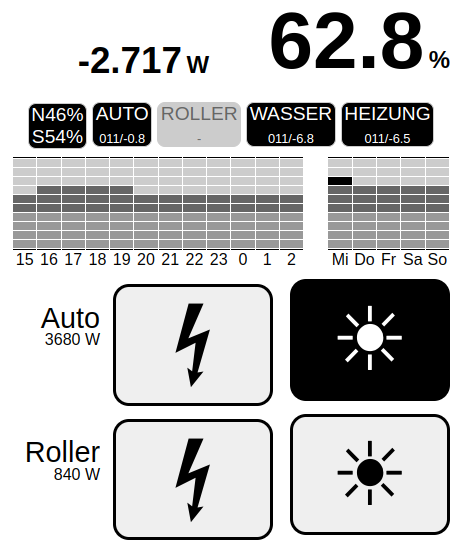
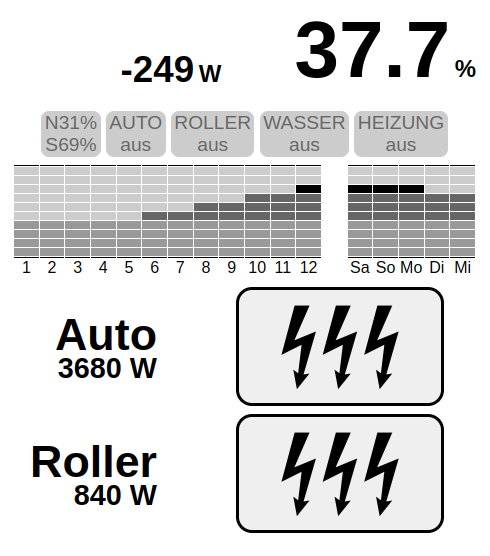
Auf internen Heartbeat umgestellt; die UI ist nicht mehr der Taktgeber und und kann auch weggelassen werden

diff --git a/sd-karteninhalt/index.html b/sd-karteninhalt/index.html
@@ -22,7 +22,7 @@
 			if(!ist_initialisiert) {
 				warte_auf_daten = false;
 				_erstelle_balkentabelle('balkenanzeige', 18);
-				setInterval(function() { refresh('', '', ''); }, 1000 * 60);
+				setInterval(function() { refresh('', '', ''); }, 1000 * 20);
 				ist_initialisiert = true;
 			}
 			// user-aktionen immer ausfuehren, nie blocken!
@@ -211,15 +211,24 @@
 				if(this.readyState == this.DONE) {
 					done_func();
 					if(this.status == 200) {
-						var daten = JSON.parse(this.responseText);
+						var daten = null;
+						try {
+							daten = JSON.parse(this.responseText);
+						} catch(err) {
+							_zaehle_fehler(true);
+							console.log(err);
+							return;
+						}
+						
 						zeitpunkt_letzte_daten = daten['timestamp'] * 1000;
 						_setze_daten_ein(daten);
 						var now = Math.floor(new Date().getTime() / 1000);
-						if(daten['timestamp'] < now - 120) {
+						if(now - daten['timestamp'] > 120) {
+							console.log("Daten zu alt: " + (now - daten['timestamp']) + "s");
 							_zaehle_fehler(true);
-						} else {
-							_zaehle_fehler(false);
+							return;
 						}
+						_zaehle_fehler(false);
 					} else {
 						_zaehle_fehler(true);
 					}
@@ -452,7 +461,7 @@
 	<p>Einfach warten, was wird schon...</p>
 </div>
 
-<div id="elektrische_daten" onclick="refresh('', '', '');">
+<div id="elektrische_daten">
 	<div class="energie">
 		<span id="ueberschuss"></span>
 		<span class="einheit">W</span>

diff --git a/zentrale/web_presenter.h b/zentrale/web_presenter.h
@@ -204,7 +204,7 @@ namespace Local {
 			webserver.server.send(204, "text/plain", "");
 		}
 
-		void ermittle_daten(const char* data_filename) {
+		void heartbeat(const char* data_filename) {
 			// Serial.println(printf("Date: %4d-%02d-%02d %02d:%02d:%02d\n", year(time), month(time), day(time), hour(time), minute(time), second(time)));
 			Local::VerbraucherAPI verbraucher_api(*cfg, web_client, persistenz);
 			int now_timestamp = verbraucher_api.timestamp;
@@ -265,111 +265,111 @@ namespace Local {
 			_write_log_data(now_timestamp);
 
 			if(persistenz.open_file_to_overwrite(data_filename)) {
-					int anteil_pv1_in_prozent = elektroanlage.gib_anteil_pv1_in_prozent();
-					sprintf(persistenz.buffer,
-						"{\"ueberschuss_in_wh\":%i,\"solarakku_ist_an\":%s,",
-						elektroanlage.gib_ueberschuss_in_w(),
-						(elektroanlage.solarakku_ist_an ? "true" : "false")
-					);
-					persistenz.print_buffer_to_file();
-					sprintf(persistenz.buffer,
-						"\"solarakku_ladestand_in_promille\":%i,",
-						elektroanlage.solarakku_ladestand_in_promille
-					);
-					persistenz.print_buffer_to_file();
-					sprintf(persistenz.buffer,
-						"\"solaranteil_in_prozent_string1\":%i,",
-						anteil_pv1_in_prozent
-					);
-					persistenz.print_buffer_to_file();
-					sprintf(persistenz.buffer,
-						"\"solaranteil_in_prozent_string2\":%i,",
-						100 - anteil_pv1_in_prozent
-					);
-					persistenz.print_buffer_to_file();
-					sprintf(persistenz.buffer,
-						"\"stunden_balkenanzeige_startzeit\":%i,",
-						wetter.stundenvorhersage_startzeitpunkt
-					);
-					persistenz.print_buffer_to_file();
-					int stundenvorhersage[12];
-					for(int i = 0; i < 12; i++) {
-						stundenvorhersage[i] = verbraucher.gib_stundenvorhersage_akku_ladestand_als_fibonacci(i);
-					}
-					sprintf(persistenz.buffer,
-						"\"stunden_balkenanzeige\":"
-					);
-					persistenz.print_buffer_to_file();
-					sprintf(persistenz.buffer,
-						"[%i,%i,%i,%i,%i,%i,%i,%i,%i,%i,%i,%i],",
-						stundenvorhersage[0],
-						stundenvorhersage[1],
-						stundenvorhersage[2],
-						stundenvorhersage[3],
-						stundenvorhersage[4],
-						stundenvorhersage[5],
-						stundenvorhersage[6],
-						stundenvorhersage[7],
-						stundenvorhersage[8],
-						stundenvorhersage[9],
-						stundenvorhersage[10],
-						stundenvorhersage[11]
-					);
-					persistenz.print_buffer_to_file();
-					sprintf(persistenz.buffer,
-						"\"tage_balkenanzeige_startzeit\":%i,",
-						wetter.tagesvorhersage_startzeitpunkt
-					);
-					persistenz.print_buffer_to_file();
-					int tagesvorhersage[5];
-					for(int i = 0; i < 5; i++) {
-						tagesvorhersage[i] = wetter.gib_tagesvorhersage_solarstrahlung_als_fibonacci(i);
-					}
-					sprintf(persistenz.buffer,
-						"\"tage_balkenanzeige\":[%i,%i,%i,%i,%i],",
-						tagesvorhersage[0],
-						tagesvorhersage[1],
-						tagesvorhersage[2],
-						tagesvorhersage[3],
-						tagesvorhersage[4]
-					);
-					persistenz.print_buffer_to_file();
-					sprintf(persistenz.buffer,
-						"\"auto_laden_an\":%s,\"roller_laden_an\":%s,",
-						verbraucher.auto_laden_ist_an() ? "true" : "false",
-						verbraucher.roller_laden_ist_an() ? "true" : "false"
-					);
-					persistenz.print_buffer_to_file();
-					sprintf(persistenz.buffer,
-						"\"wasser_ueberladen\":%s,\"heizung_ueberladen\":%s,",
-						verbraucher.wasser_relay_ist_an ? "true" : "false",
-						verbraucher.heizung_relay_ist_an ? "true" : "false"
-					);
-					persistenz.print_buffer_to_file();
-					sprintf(persistenz.buffer,
-						"\"auto_laden\":%s,\"roller_laden\":%s,",
-						verbraucher.auto_ladestatus == Local::Verbraucher::Ladestatus::force
-							? "\"force\"" : "\"solar\"",
-						verbraucher.roller_ladestatus == Local::Verbraucher::Ladestatus::force
-							? "\"force\"" : "\"solar\""
-					);
-					persistenz.print_buffer_to_file();
-					sprintf(persistenz.buffer,
-						"\"auto_benoetigte_ladeleistung_in_w\":%i,",
-						verbraucher.auto_benoetigte_ladeleistung_in_w
-					);
-					persistenz.print_buffer_to_file();
-					sprintf(persistenz.buffer,
-						"\"roller_benoetigte_ladeleistung_in_w\":%i,",
-						verbraucher.roller_benoetigte_ladeleistung_in_w
-					);
-					persistenz.print_buffer_to_file();
-					sprintf(persistenz.buffer,
-						"\"solarerzeugung_ist_aktiv\":%s,\"timestamp\":%i}",
-						verbraucher.solarerzeugung_ist_aktiv() ? "true" : "false",
-						now_timestamp
-					);
-					persistenz.print_buffer_to_file();
+				int anteil_pv1_in_prozent = elektroanlage.gib_anteil_pv1_in_prozent();
+				sprintf(persistenz.buffer,
+					"{\"ueberschuss_in_wh\":%i,\"solarakku_ist_an\":%s,",
+					elektroanlage.gib_ueberschuss_in_w(),
+					(elektroanlage.solarakku_ist_an ? "true" : "false")
+				);
+				persistenz.print_buffer_to_file();
+				sprintf(persistenz.buffer,
+					"\"solarakku_ladestand_in_promille\":%i,",
+					elektroanlage.solarakku_ladestand_in_promille
+				);
+				persistenz.print_buffer_to_file();
+				sprintf(persistenz.buffer,
+					"\"solaranteil_in_prozent_string1\":%i,",
+					anteil_pv1_in_prozent
+				);
+				persistenz.print_buffer_to_file();
+				sprintf(persistenz.buffer,
+					"\"solaranteil_in_prozent_string2\":%i,",
+					100 - anteil_pv1_in_prozent
+				);
+				persistenz.print_buffer_to_file();
+				sprintf(persistenz.buffer,
+					"\"stunden_balkenanzeige_startzeit\":%i,",
+					wetter.stundenvorhersage_startzeitpunkt
+				);
+				persistenz.print_buffer_to_file();
+				int stundenvorhersage[12];
+				for(int i = 0; i < 12; i++) {
+					stundenvorhersage[i] = verbraucher.gib_stundenvorhersage_akku_ladestand_als_fibonacci(i);
+				}
+				sprintf(persistenz.buffer,
+					"\"stunden_balkenanzeige\":"
+				);
+				persistenz.print_buffer_to_file();
+				sprintf(persistenz.buffer,
+					"[%i,%i,%i,%i,%i,%i,%i,%i,%i,%i,%i,%i],",
+					stundenvorhersage[0],
+					stundenvorhersage[1],
+					stundenvorhersage[2],
+					stundenvorhersage[3],
+					stundenvorhersage[4],
+					stundenvorhersage[5],
+					stundenvorhersage[6],
+					stundenvorhersage[7],
+					stundenvorhersage[8],
+					stundenvorhersage[9],
+					stundenvorhersage[10],
+					stundenvorhersage[11]
+				);
+				persistenz.print_buffer_to_file();
+				sprintf(persistenz.buffer,
+					"\"tage_balkenanzeige_startzeit\":%i,",
+					wetter.tagesvorhersage_startzeitpunkt
+				);
+				persistenz.print_buffer_to_file();
+				int tagesvorhersage[5];
+				for(int i = 0; i < 5; i++) {
+					tagesvorhersage[i] = wetter.gib_tagesvorhersage_solarstrahlung_als_fibonacci(i);
+				}
+				sprintf(persistenz.buffer,
+					"\"tage_balkenanzeige\":[%i,%i,%i,%i,%i],",
+					tagesvorhersage[0],
+					tagesvorhersage[1],
+					tagesvorhersage[2],
+					tagesvorhersage[3],
+					tagesvorhersage[4]
+				);
+				persistenz.print_buffer_to_file();
+				sprintf(persistenz.buffer,
+					"\"auto_laden_an\":%s,\"roller_laden_an\":%s,",
+					verbraucher.auto_laden_ist_an() ? "true" : "false",
+					verbraucher.roller_laden_ist_an() ? "true" : "false"
+				);
+				persistenz.print_buffer_to_file();
+				sprintf(persistenz.buffer,
+					"\"wasser_ueberladen\":%s,\"heizung_ueberladen\":%s,",
+					verbraucher.wasser_relay_ist_an ? "true" : "false",
+					verbraucher.heizung_relay_ist_an ? "true" : "false"
+				);
+				persistenz.print_buffer_to_file();
+				sprintf(persistenz.buffer,
+					"\"auto_laden\":%s,\"roller_laden\":%s,",
+					verbraucher.auto_ladestatus == Local::Verbraucher::Ladestatus::force
+						? "\"force\"" : "\"solar\"",
+					verbraucher.roller_ladestatus == Local::Verbraucher::Ladestatus::force
+						? "\"force\"" : "\"solar\""
+				);
+				persistenz.print_buffer_to_file();
+				sprintf(persistenz.buffer,
+					"\"auto_benoetigte_ladeleistung_in_w\":%i,",
+					verbraucher.auto_benoetigte_ladeleistung_in_w
+				);
+				persistenz.print_buffer_to_file();
+				sprintf(persistenz.buffer,
+					"\"roller_benoetigte_ladeleistung_in_w\":%i,",
+					verbraucher.roller_benoetigte_ladeleistung_in_w
+				);
+				persistenz.print_buffer_to_file();
+				sprintf(persistenz.buffer,
+					"\"solarerzeugung_ist_aktiv\":%s,\"timestamp\":%i}",
+					verbraucher.solarerzeugung_ist_aktiv() ? "true" : "false",
+					now_timestamp
+				);
+				persistenz.print_buffer_to_file();
 				persistenz.close_file();
 			}
 		}

diff --git a/README.md b/README.md
@@ -12,26 +12,23 @@ Konkret:
 
 ![Screenshot der UI](ui-screenshot.png)
 
-- Obere Zeile (v.l.n.r):
-  - Überschuss-Leistung (Solarerzeugung abzüglich Hausverbrauch)
-    - Klick auf die Zahl erzwingt eine sofortige Aktualisierung der Daten (normal erfolgt 1x die Minute eine Aktualisierung)
-  - Pufferakku-Ladestand
+- Obere Zeile:
+  - Links: Überschuss-Leistung (Solarerzeugung abzüglich Hausverbrauch)
+  - Rechts: Pufferakku-Ladestand
 - Zweite Zeile (v.l.n.r; schwarz=aktiv, grau=inaktiv):
   - Status Solarerzeugung incl relative Verteilung der Leistung der beiden Dachhälften
-  - Auto-Wallbox Ladestatus
-  - Roller-Lader Ladestatus
-  - Warmwasser-Überladen Ladestatus
-  - Heizungs-Überladen Ladestatus
-- Dritte Zeile (v.l.n.r):
-  - Vorhersage des Pufferakku-Ladestandes der nächsten 12 Stunden
-    - schwarze Balken bedeuten, das potentiell zu viel Energie vorhanden sein wird (=Netzeinspeisung)
-  - Vorhersage der Sonnenenergie der nächsten 5 Tage
-    - schwarze Balken bedeuten, das potentiell zu viel Energie vorhanden sein wird (=Netzeinspeisung)
+  - Ladestatus von Auto-Wallbox, Roller-Lader, Warmwasser-Überladen und Heizungs-Überladen
+- Dritte Zeile:
+  - Links: Vorhersage des Pufferakku-Ladestandes der nächsten 12 Stunden
+  - Rechts: Vorhersage der Sonnenenergie der nächsten 5 Tage
+  - schwarze Balken bedeuten in beiden Fällen, das potentiell zu viel Energie vorhanden sein wird (passt nicht mehr in Pufferakku = Netzeinspeisung)
+  - Die Balken sind via Fibonacci-Folge gestaffelt. Helle Balken, ganz unten, stellen bis 20% Akkustand dar, die etwas dunkleren bis 100%.
 - Unterer Bereich: Schalter der Ladesteuerung
-  - 5x tippen auf "Roller" bzw "Auto" schaltet die Ladeleistung um
+  - 5x (langsames) tippen auf "Roller" bzw "Auto" schaltet die Ladeleistung um
     - es existiert kein Rückkanal für diese Info, so dass Änderungen an den Ladeleistungen hier manuell eingestellt werden müssen
   - Klick auf Button &#9889;&#9889;&#9889; (Blitz) = Egal was ist kommt, es wird geladen
-    - Ist der Button schwarz, ist erzwungenes Laden aktiv. Ansonsten ist Überschussladen aktiv und der Pufferakku-Zielwert von 80% bis zum Sonnenuntergang wird angestrebt
+    - Ist der Button schwarz, ist erzwungenes Laden aktiv bis kein Strom mehr abgenommen wird. Dann schaltet er automatisch zurück auf Überschussladen.
+    - Ansonsten ist Überschussladen aktiv und der Pufferakku-Zielwert von 80% bis zum Sonnenuntergang wird angestrebt
 
 ## Systembestandteile:
 - ein ESP8266-E12 als Zentrale
@@ -76,24 +73,28 @@ Kommt noch:
   - in der Bibliotheksverwaltung die Module "SD", "Regexp" und "Time" installieren
 - Die IPs der ESPs im Netzwerk einrichten, dass diese immer auf die gleiche Art erreichbar sind
 - unter /netz-relay und /zentrale jeweils die _TEMPLATE.config.h in config.h kopieren und dort sinnvolle Werte eintragen
+  - nach 14 Tagen laufzeit kann man mit diesen Scripten ermitteln lassen, wie der "grundverbrauch_in_w_pro_h". Werte für "solarstrahlungs_vorhersage_umrechnungsfaktor" wird nach ca. einem Monat irgend etwas stabiles ergeben.
+    ```
+    cd /script/
+    perl download_der_daten_der_zentrale.pl [IP-DER-ZENTRALE]
+    perl ermittle_statistik.pl [IP-DER-ZENTRALE]
+    ```
 - In der IDE das Script netz-relay/netz-relay.ino öffnen und auf die Netz-Relay-ESPs spielen
 - In der IDE das Script zentrale/zentrale.ino öffnen und auf das zentrale Steuer-ESP spielen
-- Mit dem KindlePaperwhite die IP der Zentrale aufrufen http://[IP-DER-ZENTRALE]/master 
-
-TODO- 
-- grundverbauch und solarumrechnung ermnittelt: nach ca 14 Tagen gibts schon erste, brauchbare werte
-  - je länger desto besser
-- Action-URLs für z.B. ShellyButton in doku, dann braucht man keine dauerhafte ui
-- grundverbrauch: tag und nacht trennen, durchschnitt aller Werte, wenn Laden=aus
-- ShellyPlug: alle Daten auf einen Schlag auslesen! Das passiert 3x
-- schreibe daten auf SD
-- Zentrale macht im Loop alle 60 Seunden eine Abfrage auf sich selber (intern, ohne Web)
-- UI liest diese Daten nur
-- /master auflösen, ist dann obsolet
-
+- Option1: Auf z.B. dem KindlePaperwhite die UI der Zentrale aufrufen http://[IP-DER-ZENTRALE]/
+  - Das forcierte Laden von Rollerund Autokann über den dortigen Button gesteuert werden
+- Option2: mit z.B. einem ShellyButton die URL der Zentrale aufrufen, um das Laden zu forcieren (erzwungenes Volladen, egal was die Daten sagen)
+  - forciertes Laden des Autos: http://[IP-DER-ZENTRALE]/change?key=auto&value=force
+    - wieder zurücksetzen: http://[IP-DER-ZENTRALE]/change?key=auto&value=solar
+  - forciertes Laden des Rollers: http://[IP-DER-ZENTRALE]/change?key=roller&value=force
+    - wieder zurücksetzen: http://[IP-DER-ZENTRALE]/change?key=roller&value=solar
 
 ## HINWEIS
 Wechselrichter und Batterie sollten nie im Netzwerk mit anderen Endgeräten sein. Die Zugänge
 sind fest codiert und "zertifizierten Handwerkern" bekannt. Also jedem. Jemand/Etwas auf einem
 anderen Endgerät im gleichen Netzwerk könnte also problemlos Schaden anrichten. Und: SSL kennen
 die Geräte nicht.
+
+### OFFENES / TODO
+- Grundverbrauch: Tag und Nacht trennen, Durchschnitt aller Werte -> nur wenn Laden=aus (bzw das rausrechnen)
+- ShellyPlug: alle Daten auf einen Schlag auslesen! Das passiert 3x
